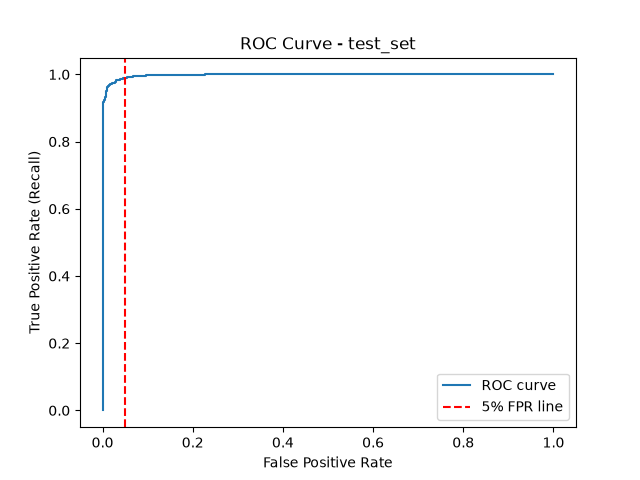
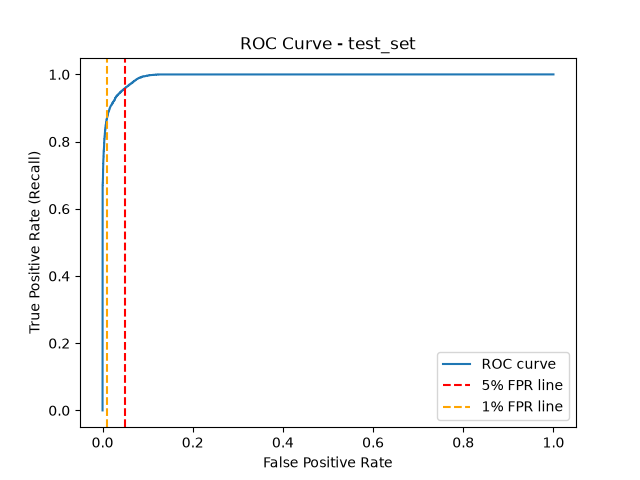
Update evaluate.py for v2 ensemble: 4-way evaluation (test/unseen-tts/unseen-replay/unseen-generator), Recall@1%+5%FPR tracked. Replay-attacks show 70.79% Recall@5%FPR - identified as priority area for Point-4/Point-5 improvements

Changed region(s): [[0.1562, 0.1562, 0.2188, 0.875], [0.6875, 0.7188, 0.875, 0.8125], [0.75, 0.8438, 0.7812, 0.875]]

diff --git a/src/evaluate.py b/src/evaluate.py
@@ -8,12 +8,15 @@ import matplotlib.pyplot as plt
 import sys
 from pathlib import Path
 sys.path.insert(0, str(Path(__file__).resolve().parent))
-import config
+import config_v2 as config
 import dataset
 import model as model_module
 import features
 
 device = "cuda" if torch.cuda.is_available() else "cpu"
+
+SPLITS_DIR = config.DATA_DIR / "splits"
+DOCS_DIR = config.PROJECT_ROOT / "docs"
 
 
 def get_predictions(csv_path):
@@ -21,17 +24,21 @@ def get_predictions(csv_path):
     loader = DataLoader(ds, batch_size=config.BATCH_SIZE, shuffle=False,
                          collate_fn=dataset.collate_fn, num_workers=4)
 
-    net = model_module.load_model(device=device)
+    net = model_module.load_model(device=device, ensemble=True)
 
     all_probs = []
     all_labels = []
 
     with torch.no_grad():
-        for batch_idx, (audio_batch, labels) in enumerate(loader):
+        for batch_idx, (audio_batch, spec_batch, labels) in enumerate(loader):
             audio_np = audio_batch.numpy()
+            spec_batch = spec_batch.to(device)
+
             embeddings = features.extract_embeddings_batch(audio_np)
-            logits = net(embeddings).squeeze(1)
-            probs = torch.sigmoid(logits).cpu().numpy()
+            combined_logit, _, _ = net(embeddings, spec_batch)
+            combined_logit = combined_logit.squeeze(1)
+
+            probs = torch.sigmoid(combined_logit).cpu().numpy()
 
             all_probs.extend(probs)
             all_labels.extend(labels.numpy())
@@ -42,7 +49,7 @@ def get_predictions(csv_path):
     return np.array(all_labels), np.array(all_probs)
 
 
-def recall_at_fpr(labels, probs, target_fpr=0.05):
+def recall_at_fpr(labels, probs, target_fpr):
     fpr, tpr, thresholds = roc_curve(labels, probs)
 
     valid_idx = np.where(fpr <= target_fpr)[0]
@@ -57,35 +64,51 @@ def recall_at_fpr(labels, probs, target_fpr=0.05):
 
 def evaluate_set(csv_path, name, plot=False):
     print(f"\n=== Evaluating: {name} ===")
+
+    if not Path(csv_path).exists():
+        print(f"  Skipping {name}: file not found at {csv_path}")
+        return None
+
     labels, probs = get_predictions(csv_path)
 
-    recall, threshold = recall_at_fpr(labels, probs, config.TARGET_FPR)
+    if len(np.unique(labels)) < 2:
+        print(f"  Skipping Recall@FPR for {name}: only one class present (label={np.unique(labels)}).")
+        recall_5, threshold_5 = None, None
+        recall_1, threshold_1 = None, None
+    else:
+        recall_5, threshold_5 = recall_at_fpr(labels, probs, config.TARGET_FPR_5)
+        recall_1, threshold_1 = recall_at_fpr(labels, probs, config.TARGET_FPR_1)
+        print(f"Recall @ 5% FPR: {recall_5:.4f} (threshold={threshold_5:.4f})")
+        print(f"Recall @ 1% FPR: {recall_1:.4f} (threshold={threshold_1:.4f})")
 
     preds_default = (probs > 0.5).astype(int)
     acc = accuracy_score(labels, preds_default)
-    prec = precision_score(labels, preds_default)
-    rec = recall_score(labels, preds_default)
-    f1 = f1_score(labels, preds_default)
+    prec = precision_score(labels, preds_default, zero_division=0)
+    rec = recall_score(labels, preds_default, zero_division=0)
+    f1 = f1_score(labels, preds_default, zero_division=0)
 
-    print(f"Recall @ {config.TARGET_FPR*100:.0f}% FPR: {recall:.4f} (threshold={threshold:.4f})")
     print(f"At default 0.5 threshold -> Acc: {acc:.4f} Precision: {prec:.4f} Recall: {rec:.4f} F1: {f1:.4f}")
 
-    if plot:
+    if plot and len(np.unique(labels)) >= 2:
         fpr, tpr, _ = roc_curve(labels, probs)
         plt.figure()
         plt.plot(fpr, tpr, label="ROC curve")
-        plt.axvline(x=config.TARGET_FPR, color="r", linestyle="--", label=f"{config.TARGET_FPR*100:.0f}% FPR line")
+        plt.axvline(x=config.TARGET_FPR_5, color="r", linestyle="--", label="5% FPR line")
+        plt.axvline(x=config.TARGET_FPR_1, color="orange", linestyle="--", label="1% FPR line")
         plt.xlabel("False Positive Rate")
         plt.ylabel("True Positive Rate (Recall)")
         plt.title(f"ROC Curve - {name}")
         plt.legend()
-        plt.savefig(config.PROJECT_ROOT / "docs" / f"roc_{name}.png")
+        plt.savefig(DOCS_DIR / f"roc_{name}.png")
         print(f"  Saved ROC plot: docs/roc_{name}.png")
 
     return {
         "name": name,
-        "recall_at_target_fpr": recall,
-        "threshold": threshold,
+        "num_samples": len(labels),
+        "recall_at_5pct_fpr": recall_5,
+        "threshold_5pct": threshold_5,
+        "recall_at_1pct_fpr": recall_1,
+        "threshold_1pct": threshold_1,
         "accuracy": acc,
         "precision": prec,
         "recall_default": rec,
@@ -93,34 +116,24 @@ def evaluate_set(csv_path, name, plot=False):
     }
 
 
-def build_unseen_eval_csv():
-    def collect_files(folder, label):
-        files = list(Path(folder).glob("*.wav"))
-        return pd.DataFrame({"filepath": [str(f) for f in files], "label": label})
-
-    real_df = collect_files(config.EVAL_REAL_DIR, config.LABEL_REAL)
-    fake_df = collect_files(config.EVAL_FAKE_DIR, config.LABEL_FAKE)
-    full_df = pd.concat([real_df, fake_df], ignore_index=True)
-
-    out_path = config.SPLITS_DIR / "eval_unseen.csv"
-    full_df.to_csv(out_path, index=False)
-    print(f"Unseen eval set: {len(real_df)} real, {len(fake_df)} fake -> {out_path}")
-    return out_path
-
-
 def main():
-    test_csv = config.SPLITS_DIR / "test.csv"
+    test_sets = [
+        (SPLITS_DIR / "test.csv", "test_set"),
+        (SPLITS_DIR / "eval_unseen.csv", "unseen_tts_attacks"),
+        (SPLITS_DIR / "replay_test.csv", "unseen_replay_attacks"),
+        (SPLITS_DIR / "synthetic_unseen_test.csv", "unseen_generator_edge_gtts"),
+    ]
+
     results = []
-
-    results.append(evaluate_set(test_csv, "test_set", plot=True))
-
-    unseen_csv = build_unseen_eval_csv()
-    results.append(evaluate_set(unseen_csv, "unseen_attacks", plot=True))
+    for csv_path, name in test_sets:
+        result = evaluate_set(csv_path, name, plot=True)
+        if result is not None:
+            results.append(result)
 
     results_df = pd.DataFrame(results)
-    results_df.to_csv(config.PROJECT_ROOT / "docs" / "eval_results.csv", index=False)
+    results_df.to_csv(DOCS_DIR / "eval_results.csv", index=False)
     print("\nSaved results to docs/eval_results.csv")
-    print(results_df)
+    print(results_df.to_string())
 
 
 if __name__ == "__main__":
